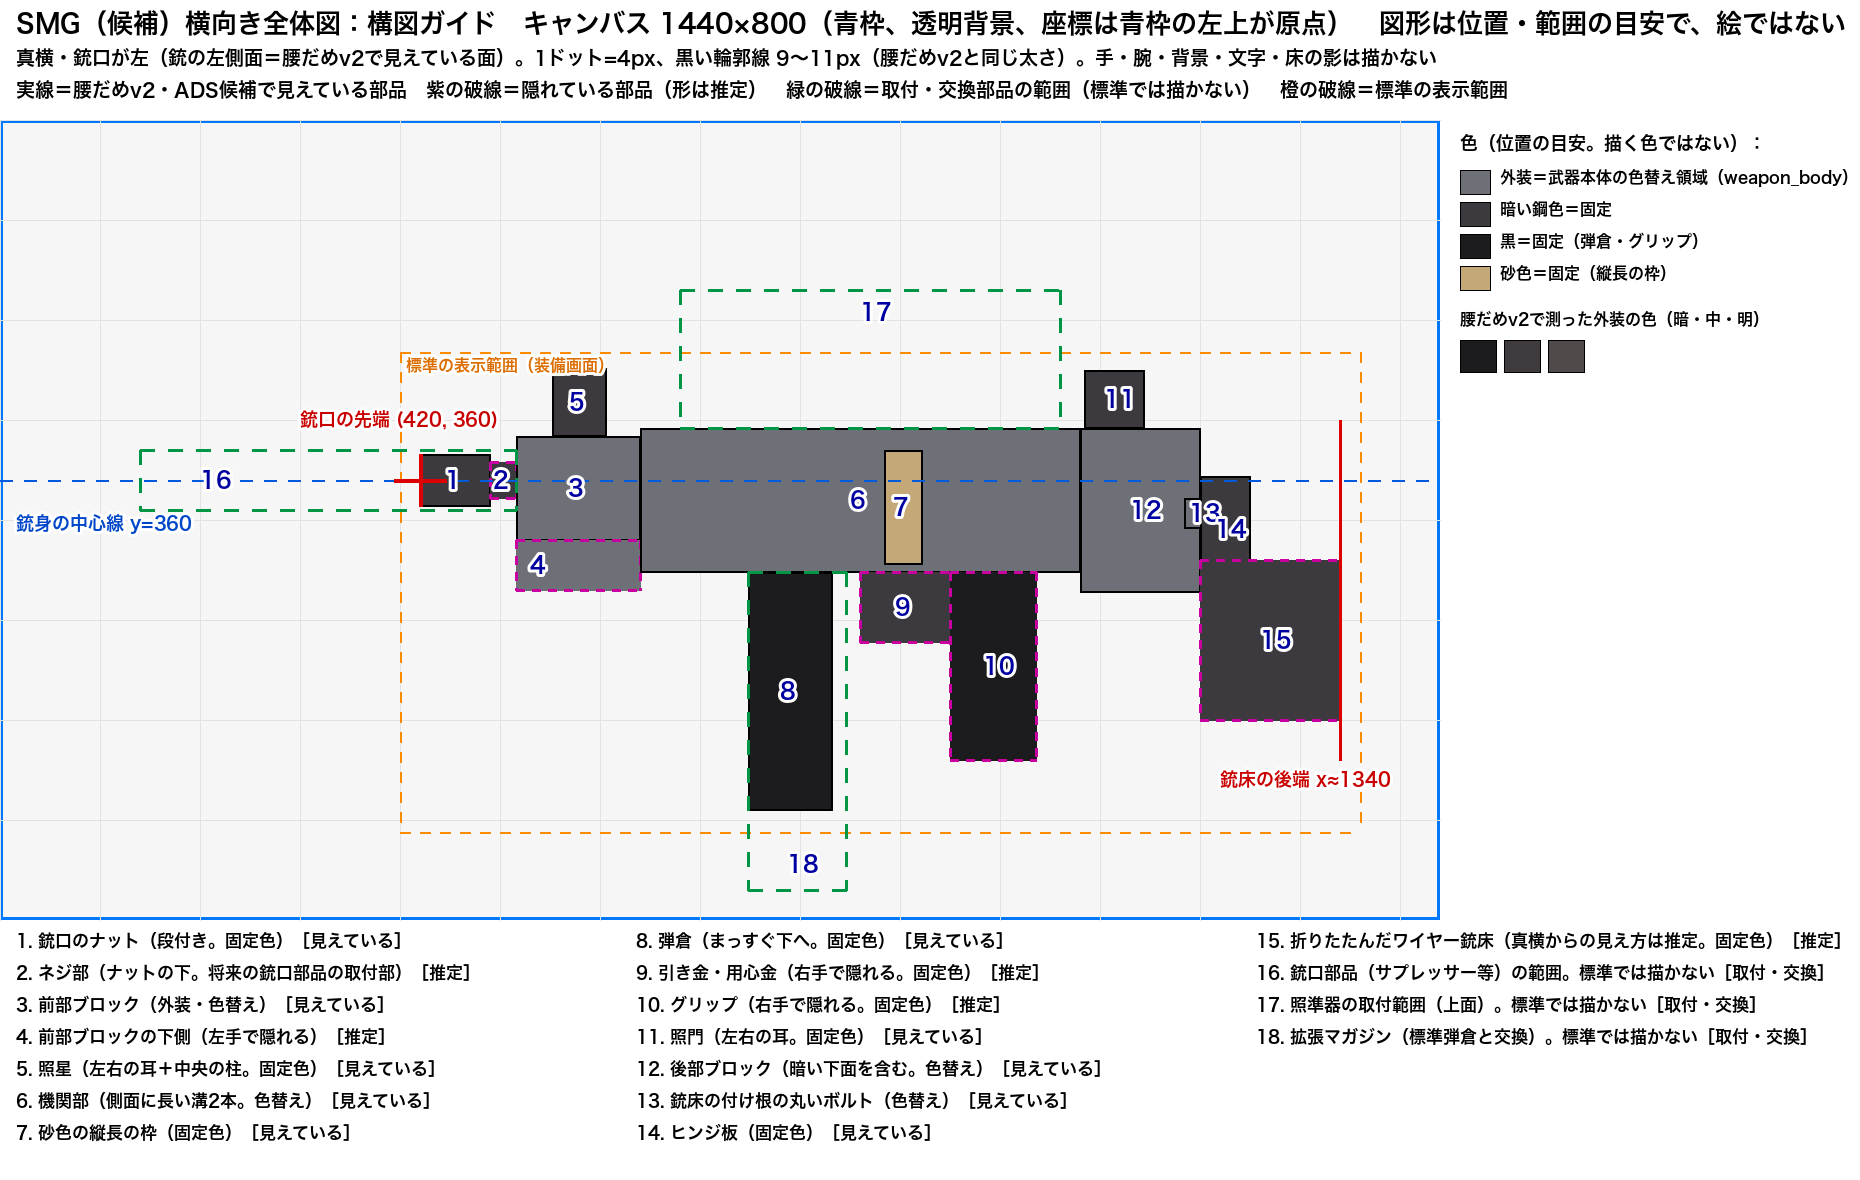
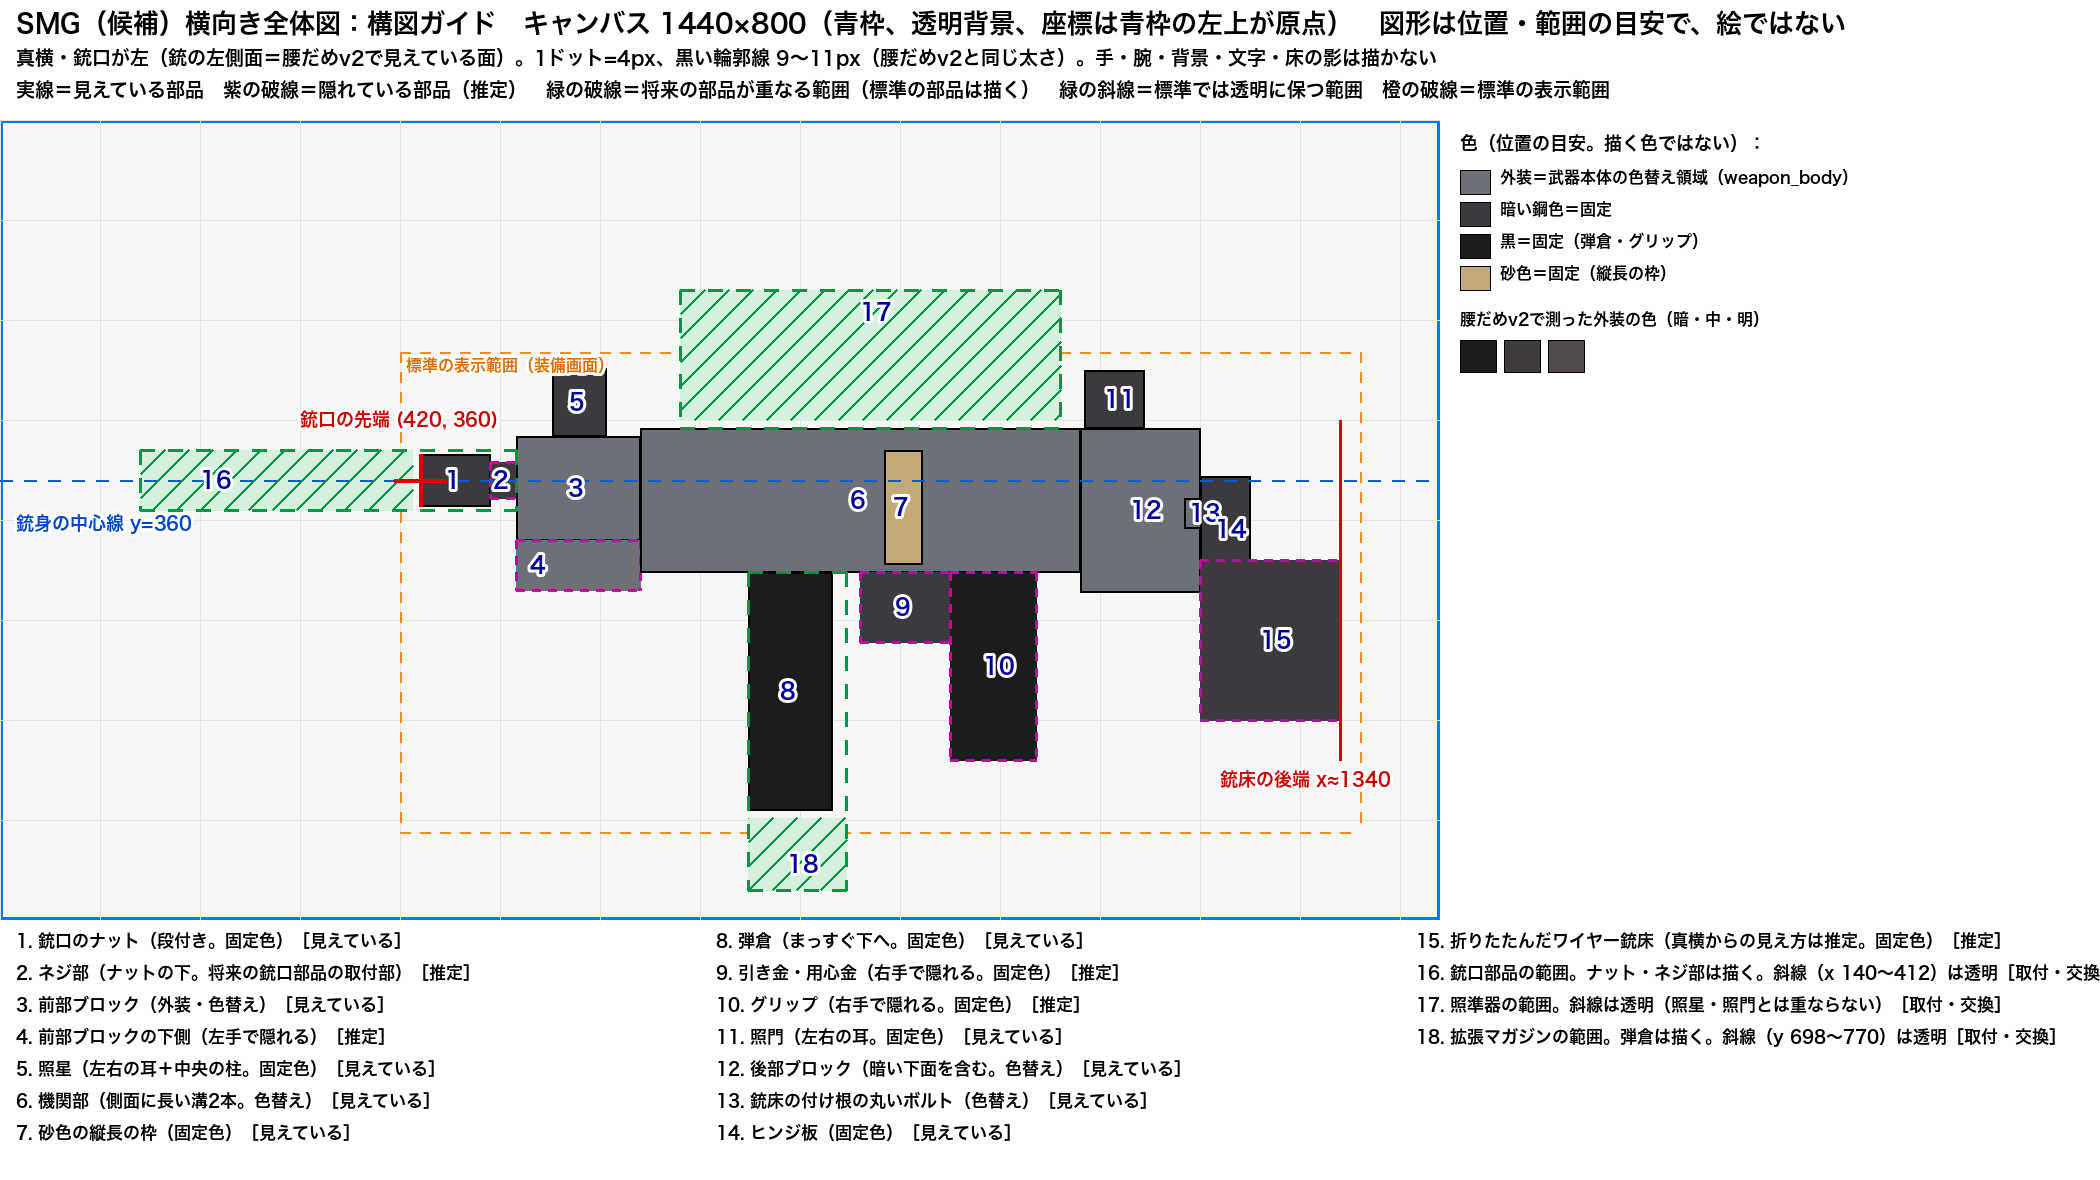
SMG side view brief: future parts split into overlay ranges (standard nut / magazine drawn in full) and transparent ranges (left of the muzzle tip x 140-412, above the receiver y 170-300, below the magazine y 698-770); guide regenerated, no overlap with standard parts_20261022_1856

diff --git a/Tools/pixelart/make_smg_side_guide.py b/Tools/pixelart/make_smg_side_guide.py
@@ -55,11 +55,15 @@ SPEC = {
         ["hinge_plate", [1200, 356, 1250, 462], "visible", "steel", "ヒンジ板（固定色）"],
         ["wire_stock", [1200, 440, 1340, 600], "estimated", "steel", "折りたたんだワイヤー銃床（真横からの見え方は推定。固定色）"],
     ],
-    # attachment / swap areas (not drawn in the standard image)
+    # attachment / swap areas: name, overlay box (where a later part will be placed; it may cover standard parts,
+    # which are still drawn in full), kind, clear box (must stay transparent in the standard image), label
     "attachments": [
-        ["muzzle_device", [140, 330, 516, 390], "swap", "銃口部品（サプレッサー等）の範囲。標準では描かない"],
-        ["optic", [680, 170, 1060, 308], "add", "照準器の取付範囲（上面）。標準では描かない"],
-        ["extended_magazine", [748, 452, 846, 770], "swap", "拡張マガジン（標準弾倉と交換）。標準では描かない"],
+        ["muzzle_device", [140, 330, 516, 390], "swap", [140, 330, 412, 390],
+         "銃口部品の範囲。ナット・ネジ部は描く。斜線（x 140〜412）は透明"],
+        ["optic", [680, 170, 1060, 308], "add", [680, 170, 1060, 300],
+         "照準器の範囲。斜線は透明（照星・照門とは重ならない）"],
+        ["extended_magazine", [748, 452, 846, 770], "swap", [748, 698, 846, 770],
+         "拡張マガジンの範囲。弾倉は描く。斜線（y 698〜770）は透明"],
     ],
     # equipment screen: the range shown by default (standard parts only) and the range with every attachment
     "viewStandard": [400, 232, 1360, 712],
@@ -111,7 +115,7 @@ def palette():
 
 def canvas_guide(out, pal):
     W, H = SPEC["canvas"]
-    HEAD, FOOT, EXTRA = 120, 260, 420
+    HEAD, FOOT, EXTRA = 120, 260, 660
     img = Image.new("RGBA", (W + EXTRA, H + HEAD + FOOT), (255, 255, 255, 255))
     dr = ImageDraw.Draw(img, "RGBA")
     oy = HEAD
@@ -130,7 +134,20 @@ def canvas_guide(out, pal):
         dr.rectangle(b(box), fill=c + (160 if kind == "visible" else 70,), outline=(0, 0, 0, 255) if kind == "visible" else None, width=2)
         if kind == "estimated":
             dashed_rect(dr, b(box), (200, 0, 160, 255), 3, 8)
-    for name, box, kind, text in SPEC["attachments"]:
+    for name, box, kind, clear, text in SPEC["attachments"]:
+        c = b(clear)
+        dr.rectangle(c, fill=(214, 240, 222, 255))
+        hgt = c[3] - c[1]
+        for k in range(c[0], c[2] + hgt, 24):
+            x0, y0 = k, c[1]
+            x1, y1 = k - hgt, c[3]
+            if x0 > c[2]:
+                y0 += x0 - c[2]
+                x0 = c[2]
+            if x1 < c[0]:
+                y1 -= c[0] - x1
+                x1 = c[0]
+            dr.line([(x0, y0), (x1, y1)], fill=(0, 150, 70, 255), width=2)
         dashed_rect(dr, b(box), (0, 150, 70, 255), 3)
     ay = SPEC["boreAxisY"] + oy
     for x in range(0, W, 24):
@@ -141,7 +158,7 @@ def canvas_guide(out, pal):
     sx = SPEC["stockRearX"]
     dr.line([(sx, oy + 300), (sx, oy + 640)], fill=(220, 0, 0, 255), width=3)
 
-    items = [(p[0], p[1], p[2], p[4]) for p in SPEC["parts"]] + [(a[0], a[1], "attach", a[3]) for a in SPEC["attachments"]]
+    items = [(p[0], p[1], p[2], p[4]) for p in SPEC["parts"]] + [(a[0], a[1], "attach", a[4]) for a in SPEC["attachments"]]
     for i, (name, box, kind, text) in enumerate(items, 1):
         cx, cy = (box[0] + box[2]) // 2, (box[1] + box[3]) // 2 + oy
         if name == "optic":
@@ -161,7 +178,7 @@ def canvas_guide(out, pal):
 
     label(dr, (16, 10), f"SMG（候補）横向き全体図：構図ガイド　キャンバス {W}×{H}（青枠、透明背景、座標は青枠の左上が原点）　図形は位置・範囲の目安で、絵ではない", 26)
     label(dr, (16, 48), f"真横・銃口が左（銃の左側面＝腰だめv2で見えている面）。1ドット={SPEC['dotPx']}px、黒い輪郭線 {SPEC['outlinePx'][0]}〜{SPEC['outlinePx'][1]}px（腰だめv2と同じ太さ）。手・腕・背景・文字・床の影は描かない", 19)
-    label(dr, (16, 80), "実線＝腰だめv2・ADS候補で見えている部品　紫の破線＝隠れている部品（形は推定）　緑の破線＝取付・交換部品の範囲（標準では描かない）　橙の破線＝標準の表示範囲", 19)
+    label(dr, (16, 80), "実線＝見えている部品　紫の破線＝隠れている部品（推定）　緑の破線＝将来の部品が重なる範囲（標準の部品は描く）　緑の斜線＝標準では透明に保つ範囲　橙の破線＝標準の表示範囲", 19)
     fy = oy + H + 12
     col_w = (W + EXTRA) // 3
     for i, (name, box, kind, text) in enumerate(items, 1):
@@ -220,7 +237,7 @@ def display_proposal(out):
             dr.rectangle([max(p0[0], bx), max(p0[1], by), min(p1[0], bx + aw), min(p1[1], by + ah)],
                          fill=COLOURS[colour], outline=(0, 0, 0))
         if i == 2:
-            for name, box, kind, text in SPEC["attachments"]:
+            for name, box, kind, clear, text in SPEC["attachments"]:
                 p0, p1 = m(box[0], box[1]), m(box[2], box[3])
                 dashed_rect(dr, [p0[0], p0[1], p1[0], p1[1]], (0, 200, 90), 2, 8)
         length = (gx1 - gx0) * s

diff --git a/docs/review/player-parts/smg/side-brief/README.md b/docs/review/player-parts/smg/side-brief/README.md
@@ -24,12 +24,13 @@
 | ★銃口の先端（基準点） | **(420, 360)**＝ナットの前面の中心。銃口部品やフラッシュを付けるときの基準 |
 | ★銃床の後端 | x≈1340（たたんだワイヤー銃床の後ろの端） |
 | ☆銃の大きさ | 銃口から銃床まで約920px（230ドット）。ライフルの全体図（銃口360〜床尾1640＝1280px）の約0.72倍。**画像上の制作の目安で、武器の実寸の比を確定するものではない** |
-| ★将来の銃口部品の余白 | x 140〜516、y 330〜390（サプレッサー等）。標準の絵では何も描かない |
-| ★照準器の余白 | 機関部の上（x 680〜1060、y 170〜308）。標準の絵では何も描かない |
-| ★拡張マガジンの余白 | 弾倉の下（x 748〜846、y 690〜770）。標準の絵では何も描かない |
+| ★将来の部品の範囲（2種類を区別） | 「重なる範囲」＝将来の部品を後で重ねる場所。標準の部品（銃口のナット・弾倉など）と重なってよく、**標準の部品は完全に描く**。「透明に保つ範囲」＝標準の絵で何も描かない場所。ガイドでは、重なる範囲が緑の破線、透明に保つ範囲が緑の斜線 |
+| ★銃口部品（サプレッサー等） | 重なる範囲：x 140〜516、y 330〜390（ナット・ネジ部を含む）。透明に保つ範囲：**x 140〜412**、y 330〜390（銃口の先端 x 420 より左。ナットの輪郭のために8pxあける） |
+| ★照準器 | 重なる範囲＝透明に保つ範囲：機関部の上 x 680〜1060、y 170〜300。照星（x 552〜606）・照門（x 1084〜1144）・機関部の上面（y 308）とは重ならない |
+| ★拡張マガジン | 重なる範囲：x 748〜846、y 452〜770（標準弾倉を含む）。透明に保つ範囲：標準弾倉の下端より下の **y 698〜770**、x 748〜846 |
 | ☆部品の位置 | 構図ガイドの番号1〜15（下の表）。数px〜十数pxの誤差は許容する |
 | ★誤差の扱い | 4px単位のドットの表現を優先する。輪郭の幅（9〜11px）と基準点（銃口の先端・銃身の中心線）には数pxの誤差を認める。正確な位置は、完成画像から測って取り込み時に合わせる |
-| ★余白の扱い | 将来の部品のための余白は、透明のままにする |
+| ★余白の扱い | 「透明に保つ範囲」は、透明のままにする。標準の銃口のナット・弾倉・照準器（照星・照門）は、重なる範囲の中でも完全に描く。追加の部品そのものは描かない |
 
 ### 部品（☆位置は目安。`smg_side_canvas_guide.png`）
 
@@ -111,7 +112,11 @@
 - 部品の位置は構図ガイドの番号1〜15に合わせる（数ピクセル〜十数ピクセルの誤差はよい）。
 - 4ピクセル単位のドットの表現を優先する。輪郭の幅（9〜11ピクセル）と、銃口の先端・銃身の中心線の位置には、数ピクセルの誤差があってよい。正確な位置は、完成画像から測って合わせる。
 - 銃の大きさ（銃口から銃床まで約920ピクセル）は、画像上の制作の目安。実物の寸法の比を表すものではない。弾倉はグリップの前で、まっすぐ下へ伸びる。ワイヤー銃床は、腰だめ画像と同じくたたんだ状態。
-- 銃口の左（x 140〜516、y 330〜390）、機関部の上（x 680〜1060、y 170〜308）、弾倉の下（x 748〜846、y 690〜770）は、後で付ける部品のための空白。何も描かず、透明のままにする。
+- 標準の銃口のナット・ネジ部・弾倉・照星・照門と、銃の本体は、完全に描く。後で付ける追加の部品（サプレッサー・照準器・拡張マガジン）そのものは描かない。
+- 次の3か所は、後で付ける部品のための空白。何も描かず、透明のままにする。
+  - 銃口の先端より左：x 140〜412、y 330〜390
+  - 機関部の上面より上：x 680〜1060、y 170〜300
+  - 弾倉の下端より下：x 748〜846、y 698〜770
 
 【描くもの（標準の状態）】
 - 段の付いた銃口のナット、前部ブロック、照星、溝のある機関部、砂色の縦長の枠、弾倉、引き金と用心金、グリップ、照門、後部ブロック（暗い下面を含む）、銃床の付け根の丸いボルト、ヒンジ板、たたんだワイヤー銃床。
